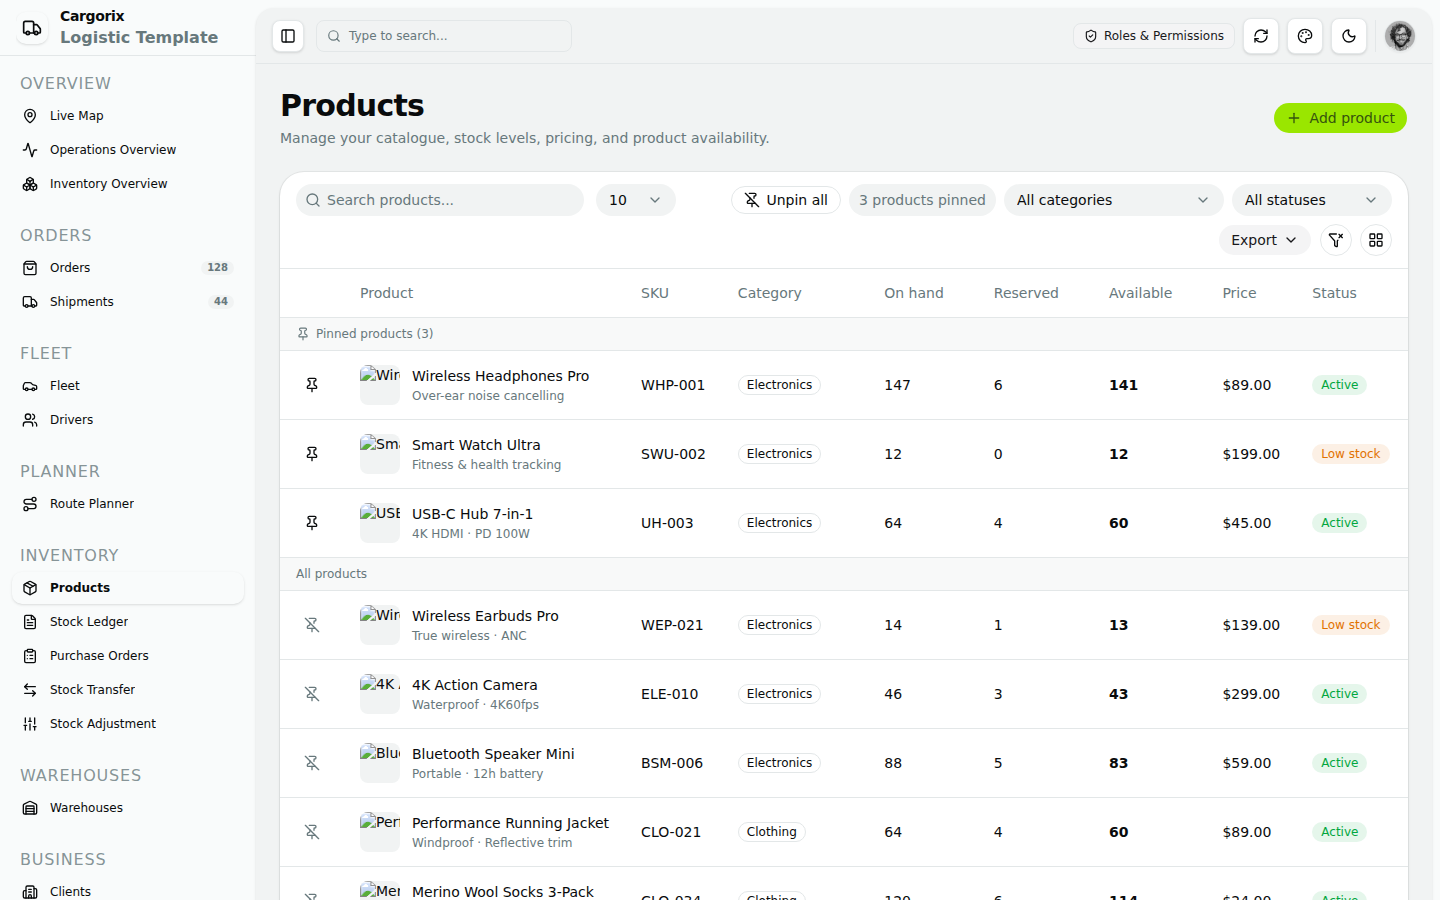
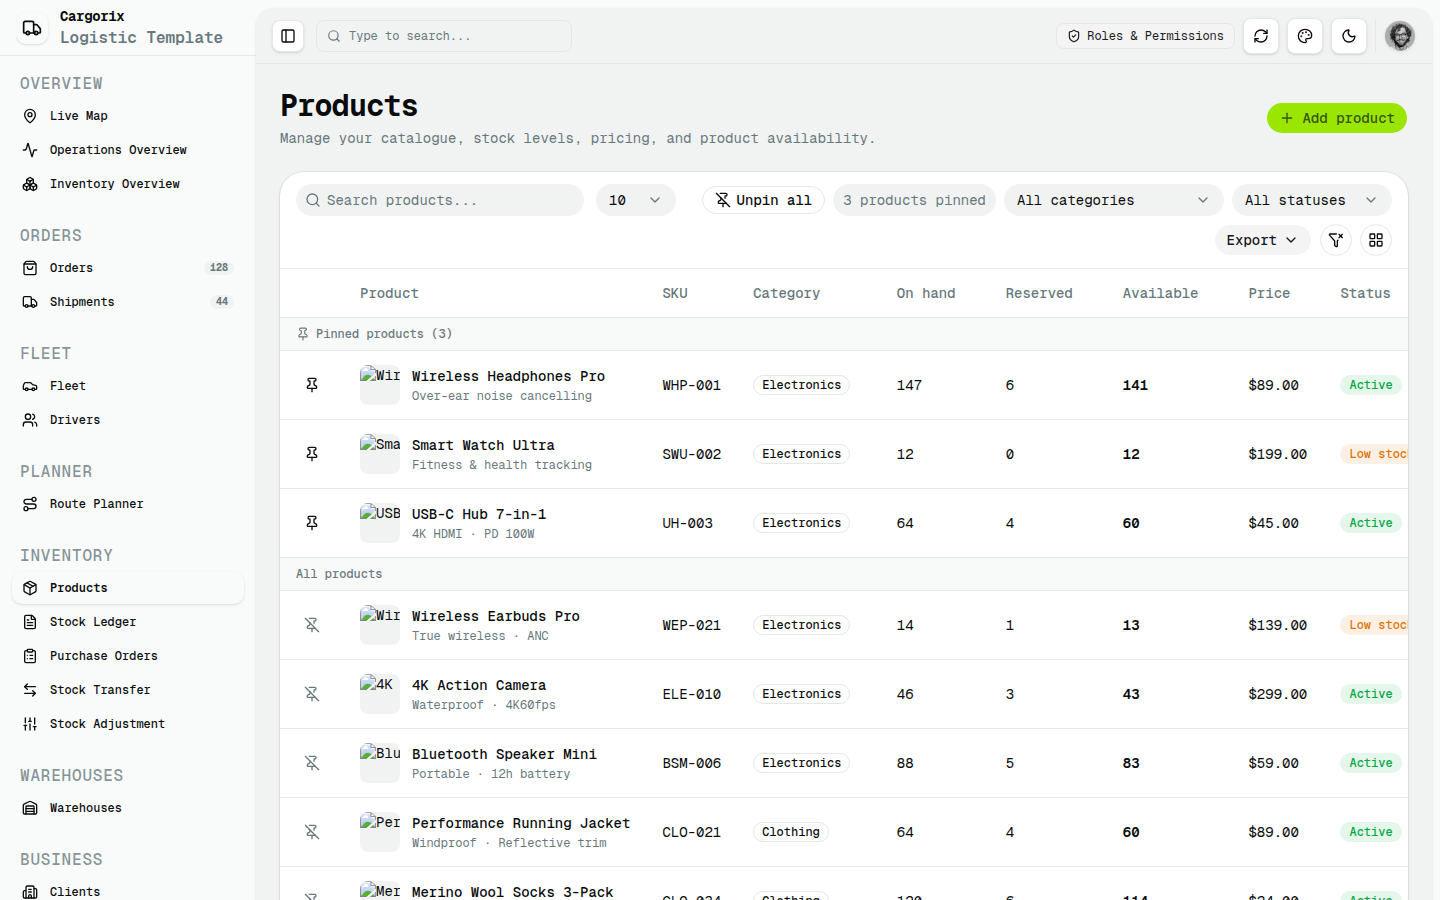
fix(typography): enforce official Geist Mono & full Google Fonts family parity

diff --git a/index.html b/index.html
@@ -4,6 +4,14 @@
     <meta charset="UTF-8" />
     <meta name="viewport" content="width=device-width, initial-scale=1.0" />
     <title>Cargorix — Logistics Management Cockpit</title>
+    <!-- Google Fonts Matching Original Cargorix Theme -->
+    <link rel="preconnect" href="https://fonts.googleapis.com" />
+    <link rel="preconnect" href="https://fonts.gstatic.com" crossorigin />
+    <link
+      href="https://fonts.googleapis.com/css2?family=DM+Sans:ital,opsz,wght@0,9..40,100..1000;1,9..40,100..1000&family=Figtree:ital,wght@0,300..900;1,300..900&family=Geist+Mono:wght@100..900&family=Geist:wght@100..900&family=IBM+Plex+Sans:ital,wght@0,100..700;1,100..700&family=Inter:ital,opsz,wght@0,14..32,100..900;1,14..32,100..900&family=JetBrains+Mono:ital,wght@0,100..800;1,100..800&family=Lora:ital,wght@0,400..700;1,400..700&family=Merriweather:ital,opsz,wght@0,18..144,300..900;1,18..144,300..900&family=Noto+Sans:ital,wght@0,100..900;1,100..900&family=Noto+Serif:ital,wght@0,100..900;1,100..900&family=Nunito+Sans:ital,opsz,wght@0,6..12,200..1000;1,6..12,200..1000&family=Outfit:wght@100..900&family=Playfair+Display:ital,wght@0,400..900;1,400..900&family=Public+Sans:ital,wght@0,100..900;1,100..900&family=Raleway:ital,wght@0,100..900;1,100..900&family=Roboto+Slab:wght@100..900&family=Roboto:ital,wght@0,100..900;1,100..900&display=swap"
+      rel="stylesheet"
+    />
+    <link rel="stylesheet" href="/assets/css/fonts.css" />
     <link rel="stylesheet" href="https://unpkg.com/leaflet@1.9.4/dist/leaflet.css" />
   </head>
   <body>

diff --git a/src/routes/__root.tsx b/src/routes/__root.tsx
@@ -14,7 +14,10 @@ export const Route = createRootRouteWithContext<MyRouterContext>()({
 
 function RootComponent() {
   return (
-    <div className="min-h-screen bg-background text-foreground antialiased font-sans">
+    <div
+      className="min-h-screen bg-background text-foreground antialiased"
+      style={{ fontFamily: "'Geist Mono', ui-monospace, monospace" }}
+    >
       <SidebarWrapper>
         <Outlet />
       </SidebarWrapper>

diff --git a/src/components/ThemeCustomizer.tsx b/src/components/ThemeCustomizer.tsx
@@ -83,6 +83,8 @@ export function ThemeCustomizer() {
     // 3. Font
     root.style.setProperty("font-family", settings.font);
     root.style.setProperty("--font-sans", settings.font);
+    root.style.setProperty("--font-geist-mono", settings.font);
+    document.body.style.fontFamily = settings.font;
 
     // 4. Radius
     root.style.setProperty("--radius", settings.radius);
